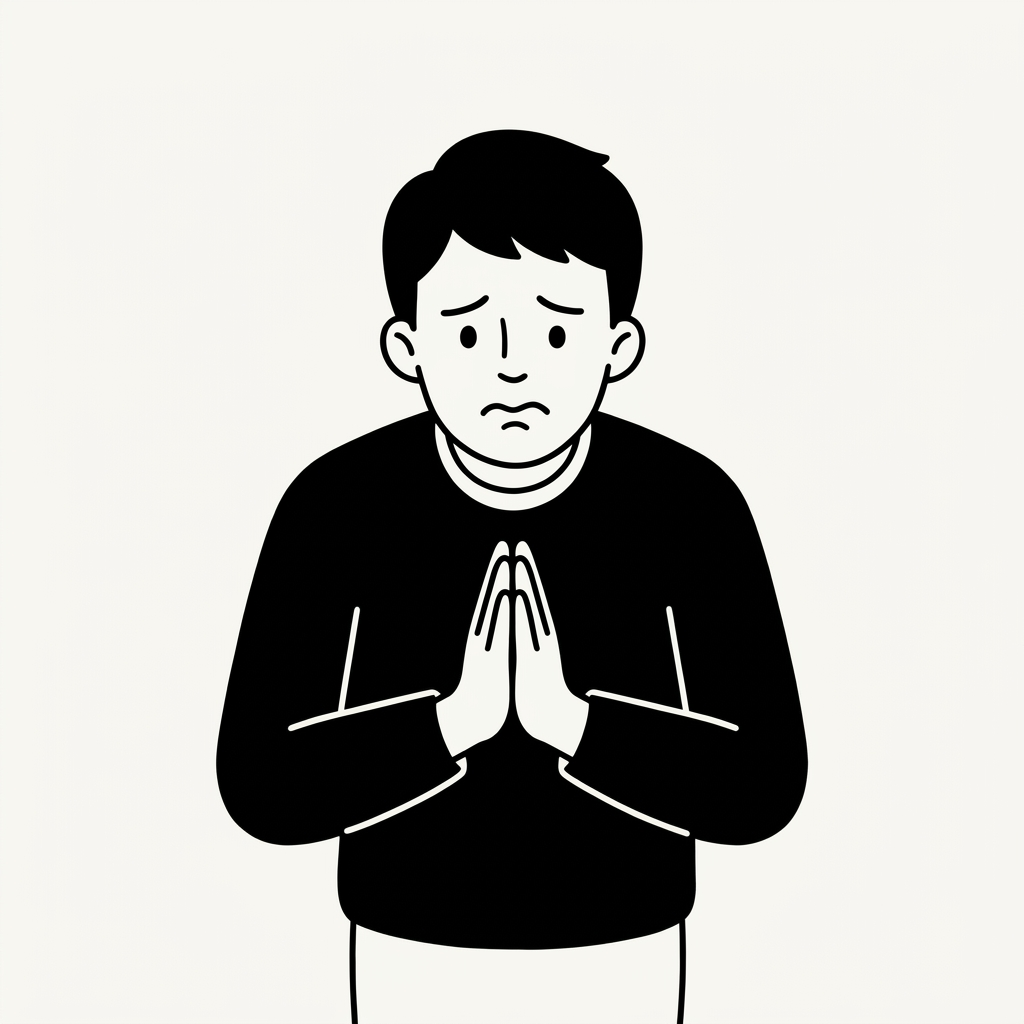
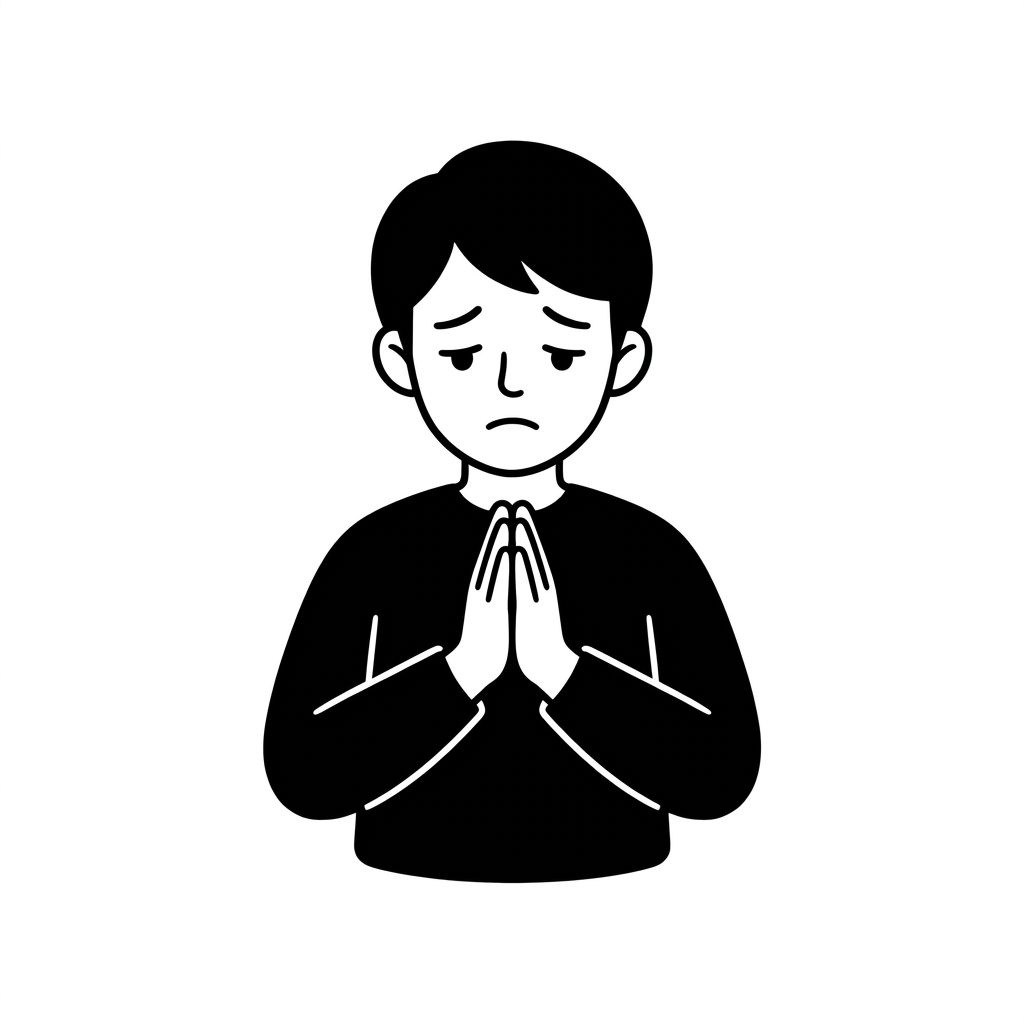
feat: replace star buttons with native google review hollow outline stars and update apology image

Changed region(s): [[0.1875, 0.2188, 0.8125, 1.0], [0.4375, 0.125, 0.5938, 0.1875], [0.4062, 0.1562, 0.4375, 0.1875]]

diff --git a/functions/redirect.ts b/functions/redirect.ts
@@ -148,7 +148,7 @@ function renderShieldPage(
       background: #ffffff;
       max-width: 440px;
       width: 100%;
-      padding: 2.25rem 2rem;
+      padding: 2.5rem 2rem 2rem 2rem;
       border-radius: 24px;
       border: 2px solid #18181b;
       box-shadow: 5px 5px 0px #18181b;
@@ -170,7 +170,7 @@ function renderShieldPage(
       margin-bottom: 1rem;
     }
     h1 {
-      font-size: 1.4rem;
+      font-size: 1.45rem;
       font-weight: 800;
       margin-bottom: 0.5rem;
       color: #18181b;
@@ -180,49 +180,53 @@ function renderShieldPage(
       color: #52525b;
       font-size: 0.95rem;
       line-height: 1.5;
-      margin-bottom: 1.75rem;
+      margin-bottom: 2rem;
     }
+
+    /* Google Review Hollow Stars Container */
     .stars-container {
       display: flex;
       justify-content: center;
-      gap: 0.5rem;
+      align-items: center;
+      gap: 0.75rem;
       margin-bottom: 1.75rem;
+      touch-action: manipulation;
     }
     .star-btn {
-      background: #ffffff;
-      border: 2px solid #18181b;
-      border-radius: 14px;
-      width: 58px;
-      height: 64px;
-      display: flex;
-      flex-direction: column;
+      background: transparent;
+      border: none;
+      padding: 0.25rem;
+      cursor: pointer;
+      outline: none;
+      display: inline-flex;
       align-items: center;
       justify-content: center;
-      cursor: pointer;
-      box-shadow: 3px 3px 0px #18181b;
-      transition: transform 0.1s ease, box-shadow 0.1s ease, background 0.15s ease;
-      text-decoration: none;
-      color: #f59e0b;
+      -webkit-tap-highlight-color: transparent;
     }
-    .star-btn:hover, .star-btn:active {
-      transform: translate(2px, 2px);
-      box-shadow: 1px 1px 0px #18181b;
-      background: #fef9c3;
+    .star-svg {
+      width: 46px;
+      height: 46px;
+      fill: none;
+      stroke: #71717a;
+      stroke-width: 1.75;
+      stroke-linejoin: round;
+      stroke-linecap: round;
+      transition: fill 0.12s ease, stroke 0.12s ease, transform 0.12s ease;
     }
-    .star-icon {
-      font-size: 1.6rem;
-      line-height: 1;
-      margin-bottom: 0.2rem;
+    .star-btn:hover .star-svg,
+    .star-btn:active .star-svg {
+      transform: scale(1.12);
     }
-    .star-num {
-      font-size: 0.8rem;
-      font-weight: 700;
-      color: #18181b;
+    .star-svg.filled {
+      fill: #fbbc04;
+      stroke: #e37400;
     }
+
     .helper-text {
-      font-size: 0.8rem;
+      font-size: 0.85rem;
       font-weight: 500;
       color: #71717a;
+      min-height: 1.25rem;
     }
 
     /* Negative Empathy View with Illustration */
@@ -296,30 +300,26 @@ function renderShieldPage(
       <h1>${displayTitle}</h1>
       <p class="subtitle">Bagaimana kepuasan Anda hari ini?</p>
       
-      <div class="stars-container">
-        <button class="star-btn" onclick="handleLowRating(1)">
-          <span class="star-icon">&#9733;</span>
-          <span class="star-num">1</span>
+      <!-- Native Google Review Hollow Outline Stars -->
+      <div class="stars-container" id="stars-group" onmouseleave="resetStars()">
+        <button type="button" class="star-btn" aria-label="1 Bintang" onmouseenter="hoverStars(1)" onclick="rate(1)">
+          <svg class="star-svg" id="star-1" viewBox="0 0 24 24"><path d="M12 17.27L18.18 21l-1.64-7.03L22 9.24l-7.19-.61L12 2 9.19 8.63 2 9.24l5.46 4.73L5.82 21z"/></svg>
         </button>
-        <button class="star-btn" onclick="handleLowRating(2)">
-          <span class="star-icon">&#9733;</span>
-          <span class="star-num">2</span>
+        <button type="button" class="star-btn" aria-label="2 Bintang" onmouseenter="hoverStars(2)" onclick="rate(2)">
+          <svg class="star-svg" id="star-2" viewBox="0 0 24 24"><path d="M12 17.27L18.18 21l-1.64-7.03L22 9.24l-7.19-.61L12 2 9.19 8.63 2 9.24l5.46 4.73L5.82 21z"/></svg>
         </button>
-        <button class="star-btn" onclick="handleLowRating(3)">
-          <span class="star-icon">&#9733;</span>
-          <span class="star-num">3</span>
+        <button type="button" class="star-btn" aria-label="3 Bintang" onmouseenter="hoverStars(3)" onclick="rate(3)">
+          <svg class="star-svg" id="star-3" viewBox="0 0 24 24"><path d="M12 17.27L18.18 21l-1.64-7.03L22 9.24l-7.19-.61L12 2 9.19 8.63 2 9.24l5.46 4.73L5.82 21z"/></svg>
         </button>
-        <a href="/id/${id}?rate=4" class="star-btn">
-          <span class="star-icon">&#9733;</span>
-          <span class="star-num">4</span>
-        </a>
-        <a href="/id/${id}?rate=5" class="star-btn">
-          <span class="star-icon">&#9733;</span>
-          <span class="star-num">5</span>
-        </a>
+        <button type="button" class="star-btn" aria-label="4 Bintang" onmouseenter="hoverStars(4)" onclick="rate(4)">
+          <svg class="star-svg" id="star-4" viewBox="0 0 24 24"><path d="M12 17.27L18.18 21l-1.64-7.03L22 9.24l-7.19-.61L12 2 9.19 8.63 2 9.24l5.46 4.73L5.82 21z"/></svg>
+        </button>
+        <button type="button" class="star-btn" aria-label="5 Bintang" onmouseenter="hoverStars(5)" onclick="rate(5)">
+          <svg class="star-svg" id="star-5" viewBox="0 0 24 24"><path d="M12 17.27L18.18 21l-1.64-7.03L22 9.24l-7.19-.61L12 2 9.19 8.63 2 9.24l5.46 4.73L5.82 21z"/></svg>
+        </button>
       </div>
       
-      <p class="helper-text">Ketuk bintang untuk membagikan ulasan Anda</p>
+      <p class="helper-text" id="star-hint">Ketuk bintang untuk menilai</p>
     </div>
 
     <div id="negative-view">
@@ -346,11 +346,55 @@ function renderShieldPage(
   </div>
 
   <script>
-    function handleLowRating(rating) {
-      document.getElementById('rating-view').style.display = 'none';
-      document.getElementById('negative-view').style.display = 'block';
-      // Fire-and-forget background ping to log rating
-      fetch('/id/${id}?rate=' + rating + '&log_only=1').catch(function(){});
+    var selectedVal = 0;
+    var labels = ["", "Kurang Memuaskan", "Cukup", "Bagus", "Sangat Bagus", "Luar Biasa!"];
+
+    function setStars(count) {
+      for (var i = 1; i <= 5; i++) {
+        var el = document.getElementById('star-' + i);
+        if (i <= count) {
+          el.classList.add('filled');
+        } else {
+          el.classList.remove('filled');
+        }
+      }
+      var hint = document.getElementById('star-hint');
+      if (count > 0 && count <= 5) {
+        hint.textContent = labels[count];
+        hint.style.color = '#18181b';
+        hint.style.fontWeight = '700';
+      } else {
+        hint.textContent = 'Ketuk bintang untuk menilai';
+        hint.style.color = '#71717a';
+        hint.style.fontWeight = '500';
+      }
+    }
+
+    function hoverStars(count) {
+      if (selectedVal === 0) setStars(count);
+    }
+
+    function resetStars() {
+      if (selectedVal === 0) setStars(0);
+    }
+
+    function rate(rating) {
+      selectedVal = rating;
+      setStars(rating);
+
+      if (rating <= 3) {
+        // Log negative rating silently in background
+        fetch('/id/${id}?rate=' + rating + '&log_only=1').catch(function(){});
+        setTimeout(function() {
+          document.getElementById('rating-view').style.display = 'none';
+          document.getElementById('negative-view').style.display = 'block';
+        }, 180);
+      } else {
+        // Positive rating: forward directly to Google Review
+        setTimeout(function() {
+          window.location.href = '/id/${id}?rate=' + rating;
+        }, 180);
+      }
     }
   </script>
 </body>

diff --git a/tests/redirect.test.ts b/tests/redirect.test.ts
@@ -52,7 +52,8 @@ describe("Google Review QR Redirect Function", () => {
     expect(html).toContain("Lalana Space - Meja 1");
     expect(html).toContain("Meja 01");
     expect(html).toContain("Hubungi Manager via WhatsApp");
-    expect(html).toContain("/id/lalana-01?rate=5");
+    expect(html).toContain("rate(5)");
+    expect(html).toContain("/id/lalana-01?rate=");
   });
 
   it("redirects to Google Review when 5-star rating chosen on 'lalana-01'", async () => {
